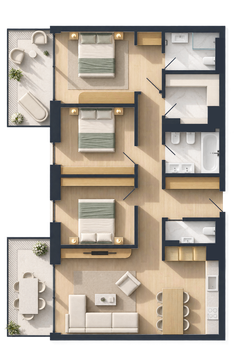
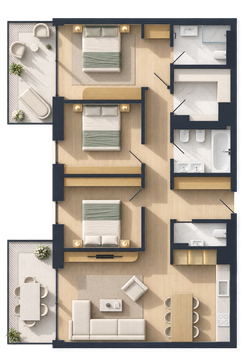
Trim transparent margins from apartment type thumbnails

diff --git a/assets/apartment-list/README.md b/assets/apartment-list/README.md
@@ -13,7 +13,7 @@ media-manifest.json       Exact apartment-to-type mapping and file hashes
 
 Plan images are type illustrations. They do not establish the precise mirrored arrangement or terrace variant of every apartment. The official type workbook maps all 69 apartment IDs; building letters and type letters remain separate. Each floor layout contains buildings A, B and C together.
 
-Original PNG copies retain their source bytes. Full WebP plan images preserve their decoded pixels and alpha, while thumbnails are separate smaller files. Floor layouts use the supplied native transparent plan artwork at 2560 × 1600, preserving the full canvas, apartment labels and linework used in the latest customer book. The ten one-page PDFs preserve the matching type pages from the current customer book (r05). The corrected C entry image is used.
+Original PNG copies retain their source bytes. Full WebP plan images preserve their decoded pixels and alpha. Type thumbnails trim only transparent outer margins with a small transparent inset; every visible mark is preserved. Floor layouts use the supplied native transparent plan artwork at 2560 × 1600, preserving the full canvas, apartment labels and linework used in the latest customer book. The ten one-page PDFs preserve the matching type pages from the current customer book (r05). The corrected C entry image is used.
 
 The manifest uses application-relative `assets/` paths. When resolving against this directory, remove that prefix: `assets/floorplans/types/B/full.webp` becomes `floorplans/types/B/full.webp`. The Framer component's Asset folder control performs this resolution.
 
